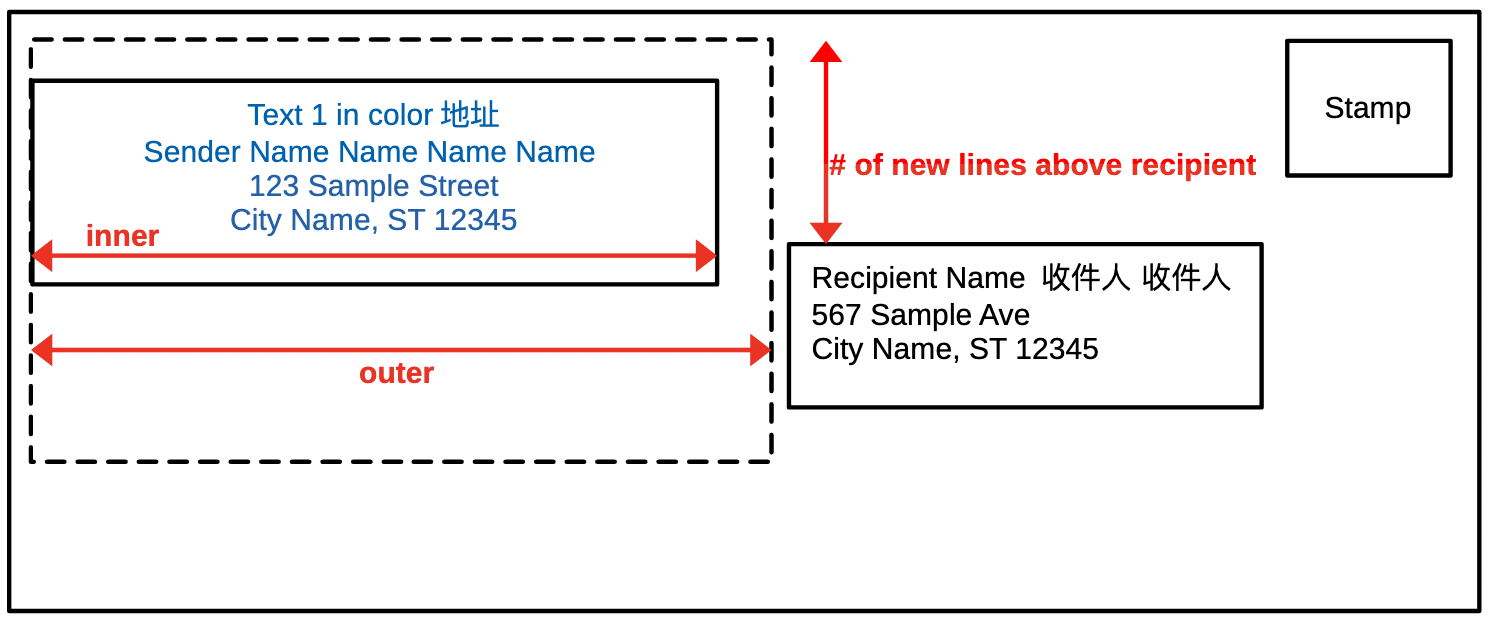
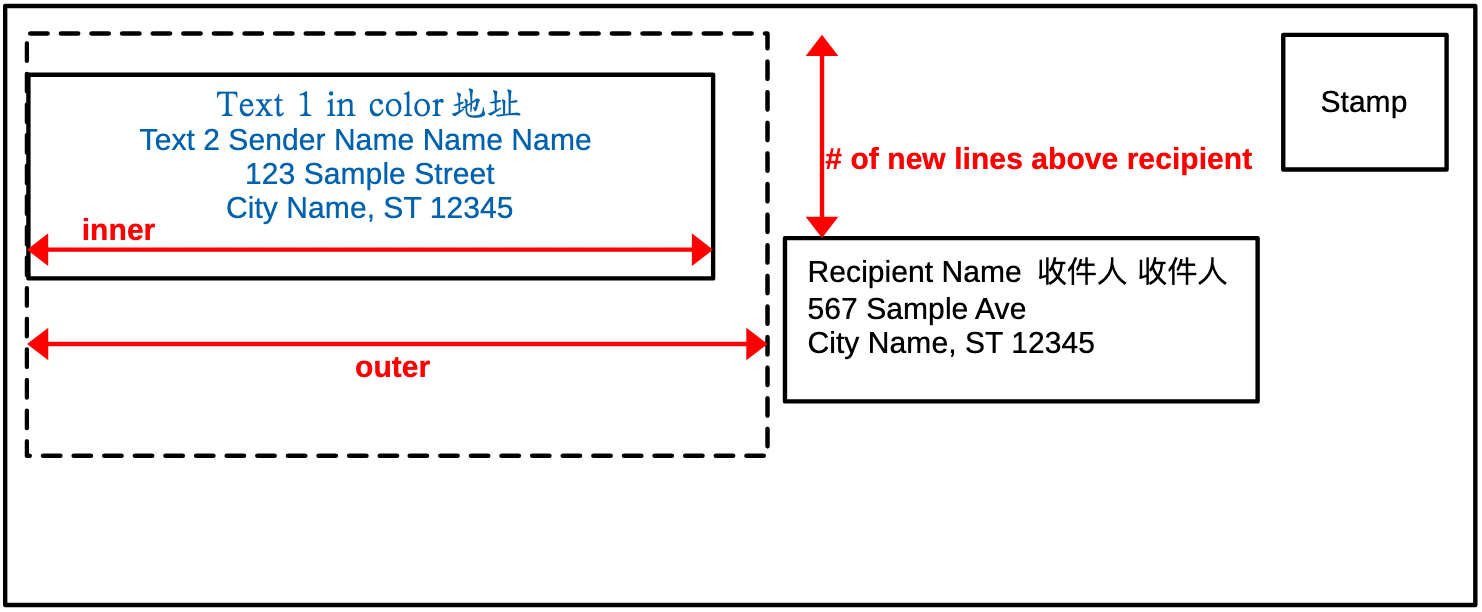
add more controls over envelopes printing of attendingmeets

Changed region(s): [[0.0, 0.0, 1.0, 0.9935]]

diff --git a/attendees/static/js/persons/attendingmeet_print_configuration_view.js b/attendees/static/js/persons/attendingmeet_print_configuration_view.js
@@ -132,7 +132,7 @@ Attendees.attendingmeetPrintConfiguration = {
         editorOptions: {
           height: 100,
           autoResizeEnabled: true,
-          value: 'Sample title',
+          value: document.attendingmeetPrintConfigurationForm.dataset.userOrganizationFullName || 'Sample title',
           showClearButton: true,
           buttons: [
             'clear',
@@ -176,7 +176,7 @@ Attendees.attendingmeetPrintConfiguration = {
         editorOptions: {
           value: 2,
           showSpinButtons: true,
-          showClearButton: true,
+          min: 0,
         },
       },
       {

diff --git a/attendees/templates/persons/attendingmeet_envelopes_list_view.html b/attendees/templates/persons/attendingmeet_envelopes_list_view.html
@@ -40,7 +40,7 @@
                  style="flex-basis: {{sender_outer_width}};">
               <h6 class="center-text"
                   style="color:{{sender_color}}; width:{{sender_inner_width}}; text-align: center;">
-                <span style="font-family: dfkai-sb, stkaiti, 標楷體, 华文楷体; font-size: 120%;">
+                <span style="font-family: dfkai-sb, stkaiti, cwTeXKai, 標楷體, kaiti, 华文楷体; font-size: 120%;">
                   {{report_titles|linebreaksbr}}
                 </span>
                 <br>

diff --git a/attendees/templates/persons/attendingmeet_print_configuration_view.html b/attendees/templates/persons/attendingmeet_print_configuration_view.html
@@ -43,6 +43,7 @@
         name="attendingmeetPrintConfigurationForm"
         data-meets-endpoint-by-slug="{{meets_endpoint_by_slug|safe}}"
         data-divisions-endpoint="{{divisions_endpoint|safe}}"
+        data-user-organization-full-name="{{user_organization_full_name}}"
         data-envelopes-url="{{envelopes_url}}"
         action="{{pdf_url}}">
     <div id="print-configuration-form"></div>

diff --git a/attendees/persons/views/page/attendingmeet_print_configuration_view.py b/attendees/persons/views/page/attendingmeet_print_configuration_view.py
@@ -14,8 +14,11 @@ class AttendingmeetPrintConfigurationView(RouteGuard, ListView):
     template_name = "persons/attendingmeet_print_configuration_view.html"
 
     def get_context_data(self, **kwargs):
+        user_organization = self.request.user.organization
+        user_organization_full_name = user_organization.infos.get('full_name') or user_organization.display_name
         context = super().get_context_data(**kwargs)
         context.update({
+            'user_organization_full_name': user_organization_full_name,
             'pdf_url': '/persons/attendingmeet_report/',
             'envelopes_url': '/persons/attendingmeet_envelopes/',
             "meets_endpoint_by_slug": "/occasions/api/organization_meets/",

diff --git a/attendees/persons/views/page/attendingmeet_envelopes_list_view.py b/attendees/persons/views/page/attendingmeet_envelopes_list_view.py
@@ -32,7 +32,7 @@ class AttendingmeetEnvelopesListView(RouteGuard, ListView):
             'sender_outer_width': self.request.GET.get('senderOuterWidth', '19rem'),
             'meet_slug': self.request.GET.get('meet', ''),
             'families': families,
-            'newLines': range(int(self.request.GET.get('newLines', '2'))),
+            'newLines': range(int(self.request.GET.get('newLines', '2') or '0')),
             'attendee_url': '/persons/attendee/',
         })
         return context
